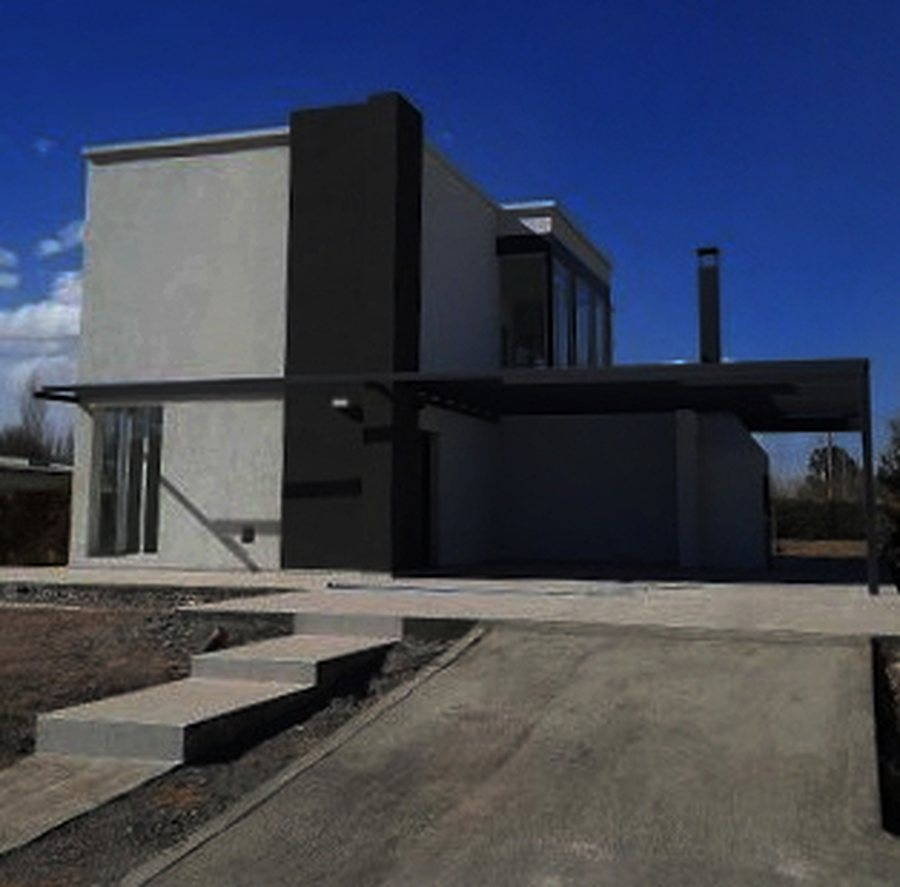
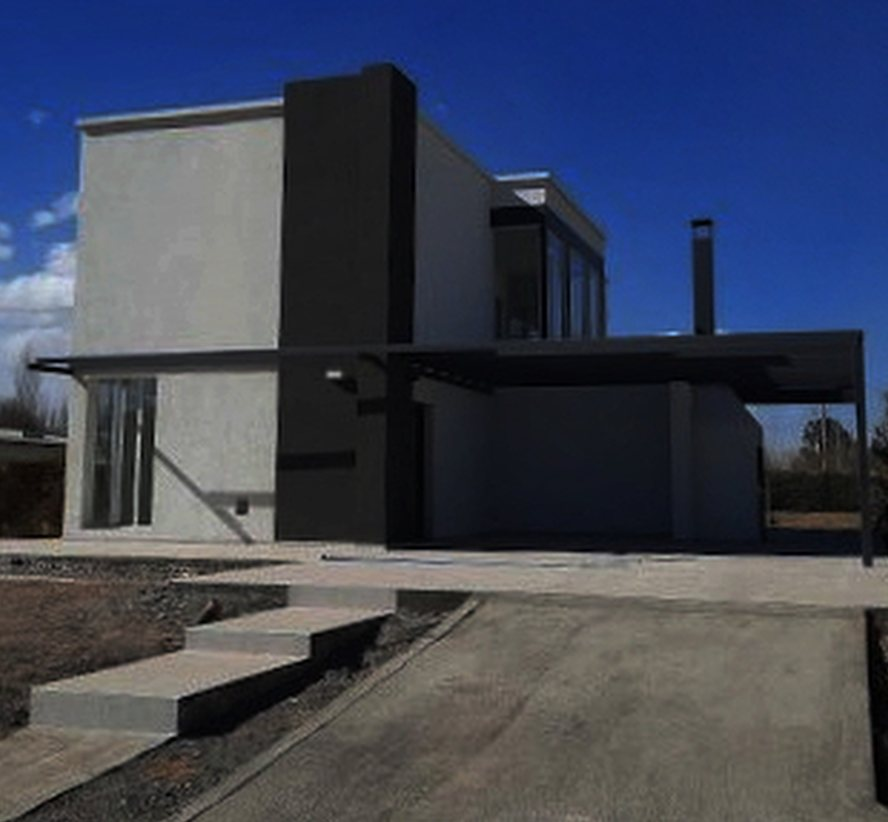
Portada: nuevo render de la vista de frente (sin pérgola), alineado con la foto de obra
- frente_pergola_modelo3d: render nuevo, proyectado sobre el encuadre de la foto con un ajuste afín (escala ≈0,446, giro ≈1°) calculado por correlación de bordes sobre la casa; volumen oscuro, volumen blanco, caja superior y techo de la cochera coinciden.
- Foto recortada a la franja cubierta por el render (y 107–398 de 437) y 6 px de borde en ambas. Salida 888×822; aspect-ratio y width/height actualizados; ?v=2 para no servir la versión anterior desde caché.

Claude-Session: https://claude.ai/code/session_01WiXLqkW1x8b2yB2rX2WtS9

diff --git a/index.html b/index.html
@@ -393,10 +393,10 @@
                     </div>
                     <div class="gemelo-images">
                         <div class="gemelo-pair">
-                            <div class="comparador" style="--pos: 50%; aspect-ratio: 900 / 887;">
-                                <picture><source srcset="images/frente_pergola_obra.webp" type="image/webp" /><img loading="lazy" width="900" height="887" src="images/frente_pergola_obra.jpg" alt="Casa de dos plantas con volumen oscuro al frente, terminada: fotografía de obra" /></picture>
+                            <div class="comparador" style="--pos: 50%; aspect-ratio: 888 / 822;">
+                                <picture><source srcset="images/frente_pergola_obra.webp?v=2" type="image/webp" /><img loading="lazy" width="888" height="822" src="images/frente_pergola_obra.jpg?v=2" alt="Casa de dos plantas con volumen oscuro al frente, terminada: fotografía de obra" /></picture>
                                 <div class="comparador-modelo">
-                                    <picture><source srcset="images/frente_pergola_modelo3d.webp" type="image/webp" /><img loading="lazy" width="900" height="887" src="images/frente_pergola_modelo3d.jpg" alt="Modelo 3D de la misma casa, desde el mismo punto de vista" /></picture>
+                                    <picture><source srcset="images/frente_pergola_modelo3d.webp?v=2" type="image/webp" /><img loading="lazy" width="888" height="822" src="images/frente_pergola_modelo3d.jpg?v=2" alt="Modelo 3D de la misma casa, desde el mismo punto de vista" /></picture>
                                 </div>
                                 <span class="comparador-etiqueta izq" aria-hidden="true">Modelo 3D</span>
                                 <span class="comparador-etiqueta der" aria-hidden="true">Obra terminada</span>
